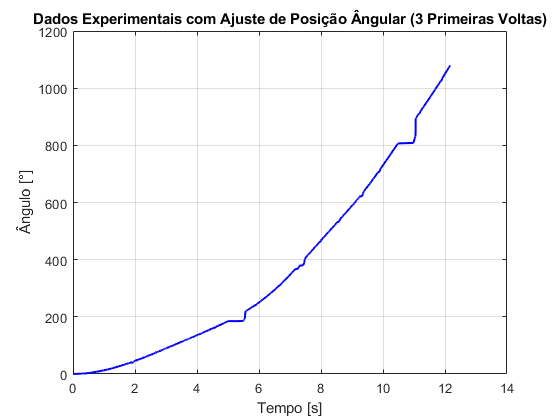
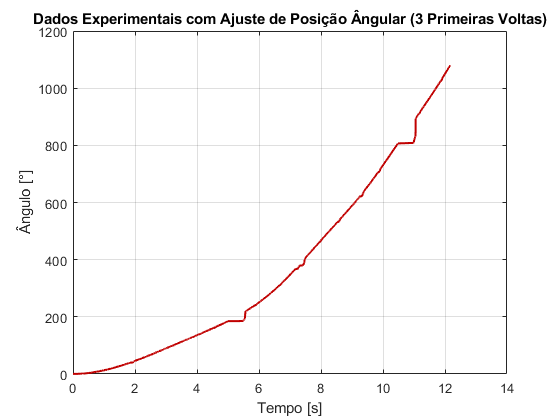
atualização

diff --git a/ProjetoFinal/MATLAB/PF01_plot_dos_dados_sem_ajustes.m b/ProjetoFinal/MATLAB/PF01_plot_dos_dados_sem_ajustes.m
@@ -4,17 +4,17 @@ clear; clc;
 angulo = load('angulo.mat').Angulo;
 tempo = load('tempo.mat').Tempo;
 figure(1);
-plot(tempo, angulo, 'LineWidth', 1.5, 'Color', 'Blue');
+plot(tempo, angulo, 'LineWidth', 1.5, 'Color', '#C00000');
 grid on;
 title('Dados Experimentais')
 xlabel('Tempo [s]');
 ylabel('Ângulo [°]');
 
-% Ajuste de ângulo
+% Ajuste do ângulo
 figure(2);
 tempo = tempo(1:1114);
 angulo = [angulo(1:657); angulo(658:929) + 360; angulo(930:1114) + 2*360];
-plot(tempo, angulo, 'LineWidth', 1.5, 'Color', 'Blue');
+plot(tempo, angulo, 'LineWidth', 1.5, 'Color', '#C00000');
 grid on;
 title('Dados Experimentais com Ajuste de Posição Ângular (3 Primeiras Voltas)')
 xlabel('Tempo [s]');
